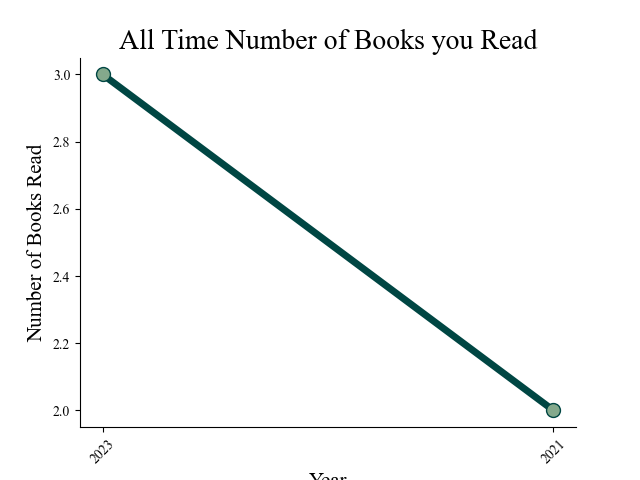
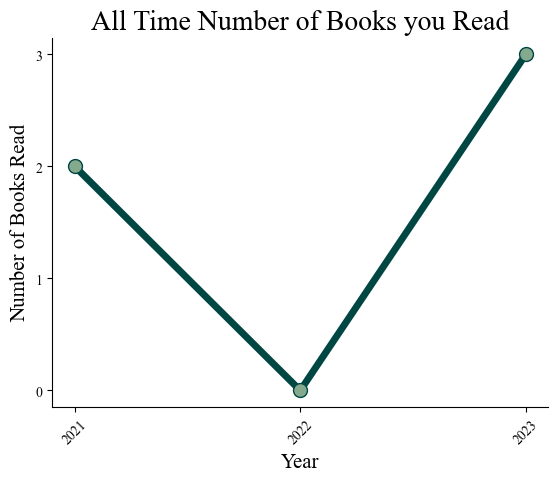
Edits to StatisticsModel
Fixed Yearly books read graph, added genres graph, formatted webpage

diff --git a/GoodEnoughReads/statistics/templates/statistics/statistics.html b/GoodEnoughReads/statistics/templates/statistics/statistics.html
@@ -15,8 +15,8 @@
 
     <div class="container">
       <div class ="row", style="background-color: #EDD0B1; padding-top: 5px; border-radius: 10px; margin-top: 50px;">
-        <div class ="col" style = "color: #004643; font-size: 24px; margin-bottom: 3px; font-family: Cambria, Cochin, Georgia, Times, 'Times New Roman', serif">
-          <p style = "margin-bottom: 0px;"> Number of Pages you Read this Week</p>
+        <div class ="col" style = "color: #004643; font-size: 30px; margin-bottom: 3px; font-family: Cambria, Cochin, Georgia, Times, 'Times New Roman', serif">
+          <p style = "text-align:center; margin-bottom: 0px;"> <Strong>Number of Pages you Read this Week</Strong></p>
           <p style = "text-align:center; color: #FFFFFF; font-size: 20px; margin-bottom: 3px; font-family: Andalé Mono, monospace"> <Strong> Congratulations! </Strong> </p>
           <p style = "text-align:center; color: #000000; font-size: 18px; margin-bottom: 3px; font-family: Andalé Mono, monospace"> You read {{pages_this_week}} pages this week! </p>
         </div>
@@ -25,8 +25,8 @@
 
     <div class="container">
       <div class="row", style="background-color: #EDD0B1; padding-top: 5px; border-radius: 10px; margin-top: 50px;">
-        <div class="col" style = "color: #004643; font-size: 24px; margin-bottom: 3px; font-family: Cambria, Cochin, Georgia, Times, 'Times New Roman', serif">
-          <p style = "margin-bottom: 0px;"> Number of Books you Read this Month</p>
+        <div class="col" style = "color: #004643; font-size: 30px; margin-bottom: 3px; font-family: Cambria, Cochin, Georgia, Times, 'Times New Roman', serif">
+          <p style = "text-align:center; margin-bottom: 0px;"> <Strong>Number of Books you Read this Month</Strong></p>
           <p style = "text-align:center; color: #000000; font-size: 18px; margin-bottom: 3px; font-family: Andalé Mono, monospace"> You read {{books_this_month}} books this month! </p>
         </div>
       </div>
@@ -34,9 +34,11 @@
 
     <div class="container">
       <div class="row", style="background-color: #EDD0B1; padding-top: 5px; border-radius: 10px; margin-top: 50px;">
-        <div class="col" style = "color: #004643; font-size: 24px; margin-bottom: 3px; font-family: Cambria, Cochin, Georgia, Times, 'Times New Roman', serif">
-          <p style = "margin-bottom: 0px;"> Books You Read this Year</p>
+        <div class="col" style = "color: #004643; font-size: 30px; margin-bottom: 3px; font-family: Cambria, Cochin, Georgia, Times, 'Times New Roman', serif">
+          <p style = "text-align:center; margin-bottom: 0px;"> <Strong>Books You Read this Year</Strong></p>
+          </p>
           <p style = "text-align:center; color: #000000; font-size: 18px; margin-bottom: 3px; font-family: Andalé Mono, monospace"> You read {{books_this_year}} books this year! </p>
+          </p>
           <img src= "{% static 'gersiteapp/img/stats/BarGraphNumberofBooksyouReadperMonththisYear.png' %}" alt = "Books you read every month per year" style = "display: block; margin-left: auto; margin-right: auto; width: 50%;">
         </div>
       </div>
@@ -44,10 +46,20 @@
 
     <div class="container">
       <div class="row", style="background-color: #EDD0B1; padding-top: 5px; border-radius: 10px; margin-top: 50px;">
-        <div class="col" style = "color: #004643; font-size: 24px; margin-bottom: 3px; font-family: Cambria, Cochin, Georgia, Times, 'Times New Roman', serif">
-          <p style = "margin-bottom: 0px;"> Books you Read since the Beginning of Time</p>
-          <p style = "text-align:center; color: #000000; font-size: 18px; margin-bottom: 3px; font-family: Andalé Mono, monospace"> You read {{books_this_year}} books this year! </p>
+        <div class="col" style = "color: #004643; font-size: 30px; margin-bottom: 3px; font-family: Cambria, Cochin, Georgia, Times, 'Times New Roman', serif">
+          <p style = "text-align:center; margin-bottom: 0px;"> <Strong>Books you Read since the Beginning of Time</Strong></p>
+          </p>
           <img src= "{% static 'gersiteapp/img/stats/LineGraphAllTimeNumberofBooksyouRead.png' %}" alt = "Books you read every month per year" style = "display: block; margin-left: auto; margin-right: auto; width: 50%;">
+        </div>
+      </div>
+    </div>
+
+    <div class="container">
+      <div class="row", style="background-color: #EDD0B1; padding-top: 5px; border-radius: 10px; margin-top: 50px;">
+        <div class="col" style = "color: #004643; font-size: 30px; margin-bottom: 3px; font-family: Cambria, Cochin, Georgia, Times, 'Times New Roman', serif">
+          <p style = "text-align:center; margin-bottom: 0px;"> <Strong>Genres you read this year</Strong></p>
+          </p>
+          <img src= "{% static 'gersiteapp/img/stats/PieChartGenresyouReadthisyear.png' %}" alt = "Books you read every month per year" style = "display: block; margin-left: auto; margin-right: auto; width: 50%;">
         </div>
       </div>
     </div>

diff --git a/GoodEnoughReads/Statistics/StatisticsModel.py b/GoodEnoughReads/Statistics/StatisticsModel.py
@@ -1,6 +1,7 @@
 import numpy as np
 import matplotlib.pyplot as plt
 from matplotlib.font_manager import FontProperties
+from matplotlib.ticker import MaxNLocator
 from django.db import models
 from django.db import connection, transaction
 import datetime
@@ -63,7 +64,7 @@ class StatisticsModel:
         YearlyBooksRead = self.cursor.fetchall()
 
         # dictionary with key value pairs: key - year, value - number of books read that year 
-        self.num_books_read_per_year = {"2023": 0}  # Add years as keys as searching through database
+        self.num_books_read_per_year = {2023: 0}  # Add years as keys as searching through database
         # get pages read of books with newest reading end date in the current year
         # compare to total pages in that book
         # if total pages = number of pages read
@@ -71,15 +72,35 @@ class StatisticsModel:
 
         i = 0
         while i < len(YearlyBooksRead):
-            if (str(YearlyBooksRead[i][0].year) in self.num_books_read_per_year):
-                self.num_books_read_per_year[str(YearlyBooksRead[i][0].year)] += 1
+            if (YearlyBooksRead[i][0].year in self.num_books_read_per_year):
+                self.num_books_read_per_year[YearlyBooksRead[i][0].year] += 1
             else:
-                self.num_books_read_per_year[str(YearlyBooksRead[i][0].year)] = 1
+                self.num_books_read_per_year[YearlyBooksRead[i][0].year] = 1
             i += 1
         
+        year_keys = list(self.num_books_read_per_year.keys())
+        year_keys.sort()
+
+        # Fill in any missing years
+        # Ex. year_keys = 2020, 2022, 2023 - adds 2021
+        self.sorted_num_books_read_per_year = {}
+        i = 0
+        while i < len(year_keys):
+            if ((i + 1) < len(year_keys) and year_keys[i] + 1 != year_keys[i + 1]):
+                year_keys.insert(i + 1, year_keys[i] + 1)
+            if (year_keys[i] in self.num_books_read_per_year):
+                self.sorted_num_books_read_per_year[year_keys[i]] = self.num_books_read_per_year[year_keys[i]]
+            else:
+                self.sorted_num_books_read_per_year[year_keys[i]] = 0
+            i += 1
+
+
         this_year = datetime.date.today().year
         
-        return self.num_books_read_per_year[str(this_year)], self.num_books_read_per_year
+        return self.num_books_read_per_year[this_year], self.sorted_num_books_read_per_year
+
+    def CalculateBookPagesPerYear():
+        pass
 
     def CalculateGenresPerYear(self): 
         self.cursor.execute("SELECT C.NewestReadingEndDate, B.Genre FROM BookInUserCollection AS C, Book AS B WHERE C.email = '" + self.email + "' AND B.ISBN = C.ISBN;")
@@ -127,8 +148,10 @@ class StatisticsModel:
 
         ax.spines['top'].set_visible(False)
         ax.spines['right'].set_visible(False)
-        
-        fig.savefig('gersiteapp/static/gersiteapp/img/stats/LineGraph' + title.replace(' ', '') + '.png', transparent=True)
+        ax.xaxis.set_major_locator(MaxNLocator(integer=True))
+        ax.yaxis.set_major_locator(MaxNLocator(integer=True))
+
+        fig.savefig('gersiteapp/static/gersiteapp/img/stats/LineGraph' + title.replace(' ', '') + '.png', bbox_inches='tight', transparent=True)
 
     def CreatePieChart(self, x, y, title):
         fig, ax = plt.subplots()
@@ -148,7 +171,7 @@ class StatisticsModel:
         plt.pie(y, labels = x, startangle = 90, colors = PieColors, pctdistance = 0.85, explode = PieExplode)
         plt.title(title, fontproperties = self.font, fontsize = 20)
         
-        fig.savefig('gersiteapp/static/gersiteapp/img/stats/PieChart' + title.replace(' ','') + '.png', transparent=True)
+        fig.savefig('gersiteapp/static/gersiteapp/img/stats/PieChart' + title.replace(' ','') + '.png', bbox_inches='tight', transparent=True)
 
 if __name__ == '__main__':
     books_per_month = {"January":5, "February": 7, "March": 10, "April": 10, "May": 0,
